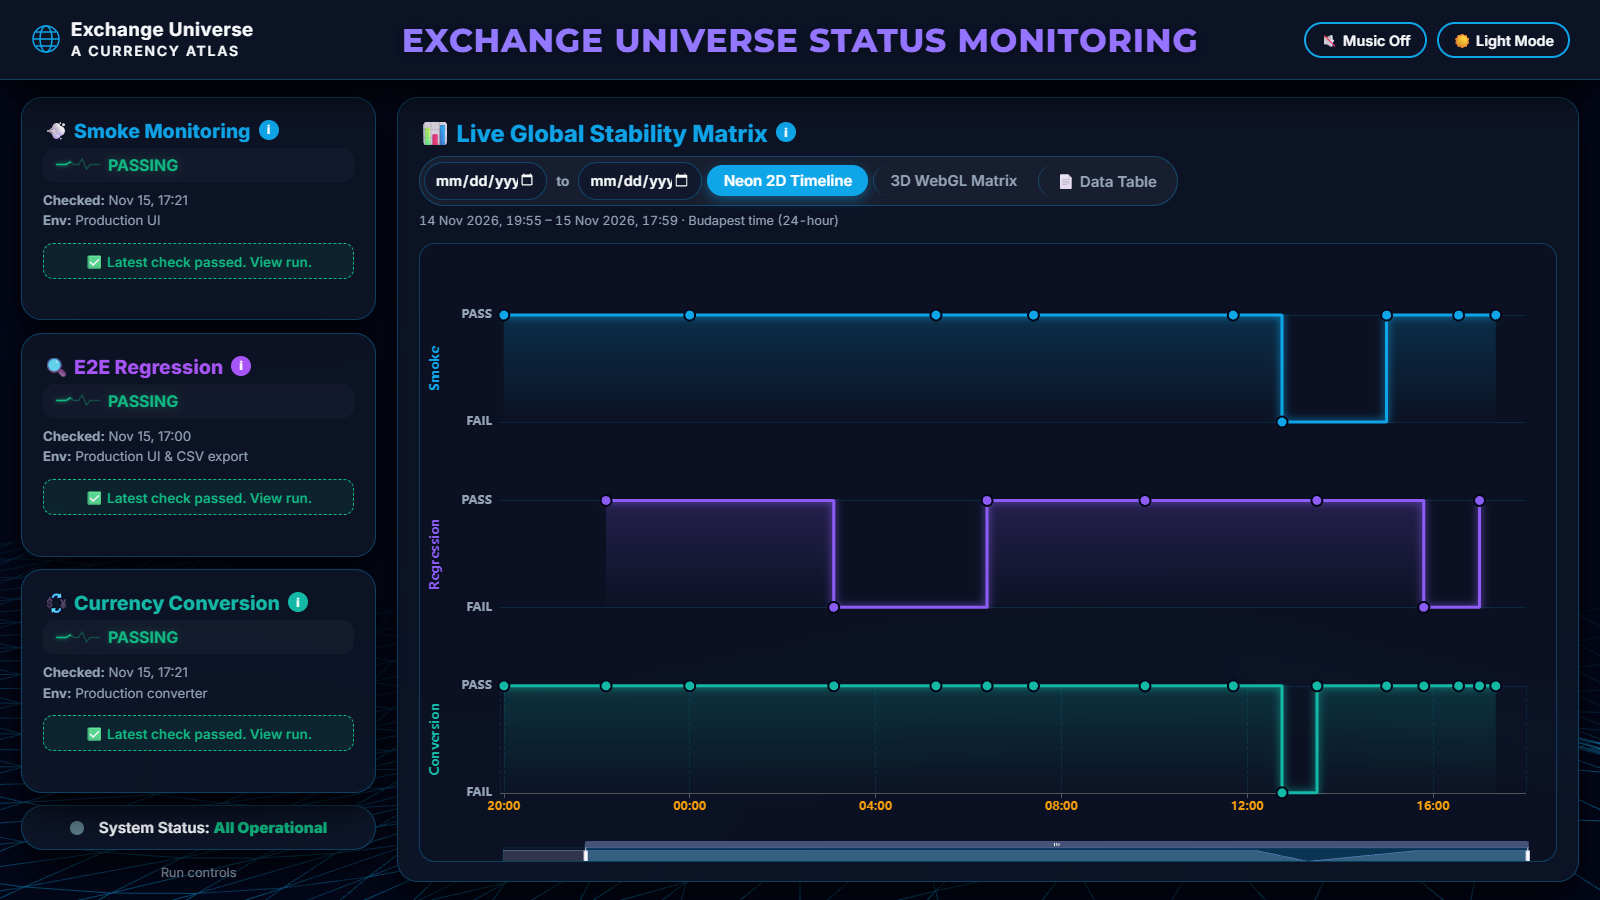
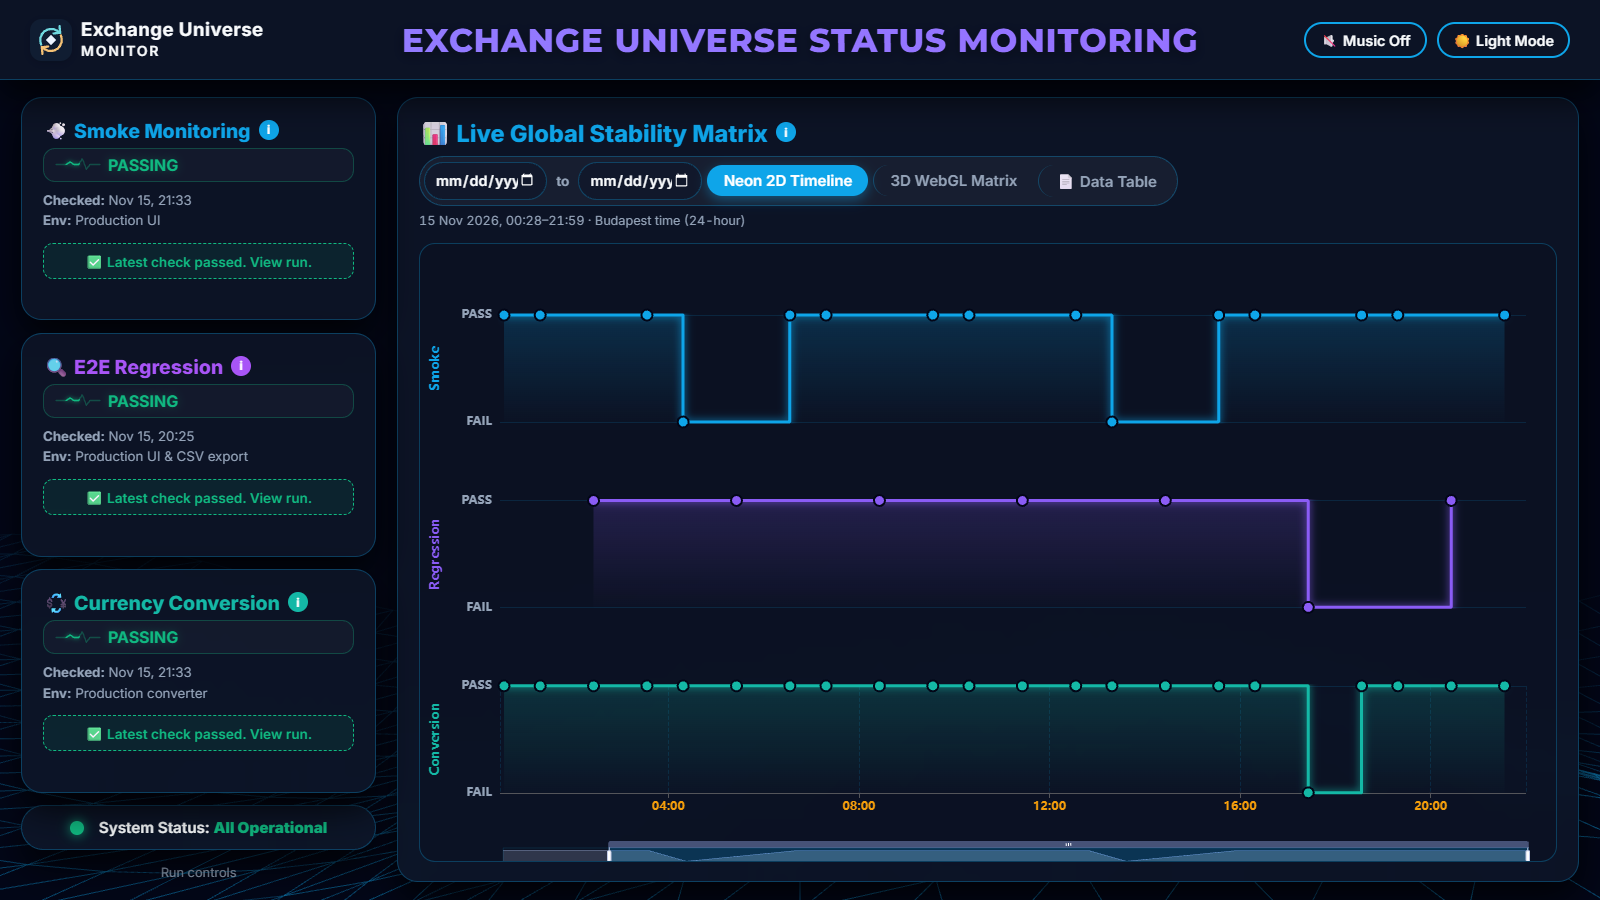
Use the Exchange Universe emblem in the monitor

diff --git a/dashboard/dashboard.css b/dashboard/dashboard.css
@@ -82,13 +82,14 @@ header {
 }
 
 .logo-container img {
-    height: 35px;
+    width: 42px;
+    height: 42px;
+    flex: 0 0 auto;
     filter: drop-shadow(0 2px 4px rgba(0,0,0,0.1));
     transition: transform 0.3s;
 }
 
 .logo-container img:hover { transform: scale(1.05); }
-[data-theme="dark"] .logo-container img { filter: brightness(0) invert(1); }
 
 h1 {
     font-family: 'Montserrat', sans-serif;
@@ -293,7 +294,7 @@ h1 {
 
 @media (max-width: 768px) {
     header { flex-direction: column !important; padding: 15px 10px !important; text-align: center !important; gap: 12px !important; width: 100% !important; box-sizing: border-box !important; }
-    .logo-container img { height: 35px !important; }
+    .logo-container img { width: 35px; height: 35px; }
     h1 { font-size: 1.2rem !important; margin: 0 !important; line-height: 1.4 !important; padding: 0 5px !important; white-space: normal !important; }
     .chart-toggles { flex-direction: column !important; align-items: stretch !important; padding: 10px !important; width: 100% !important; box-sizing: border-box !important; }
     .date-picker { width: 100% !important; text-align: center !important; margin-bottom: 5px !important; padding: 10px !important; box-sizing: border-box !important; }
@@ -336,7 +337,6 @@ h1 { font-size: clamp(1.2rem, 2.04vw, 2.55rem); }
     letter-spacing: .025em;
     line-height: 1.04;
 }
-.logo-container svg { color: var(--accent-blue); }
 .logo-container span { display: grid; }
 .logo-container small { margin-top: 4px; font: 600 .75em Inter, sans-serif; letter-spacing: .13em; text-transform: uppercase; }
 .header-controls { justify-content: flex-end; }

diff --git a/dashboard/index.html b/dashboard/index.html
@@ -4,6 +4,7 @@
     <meta charset="utf-8">
     <meta name="viewport" content="width=device-width, initial-scale=1">
     <title>Exchange Universe Status Monitoring</title>
+    <link rel="icon" type="image/svg+xml" href="/assets/logo-mark.svg">
     <link rel="stylesheet" href="/dashboard.css">
     <script defer src="/assets/echarts.js"></script>
     <script defer src="/assets/echarts-gl.js"></script>
@@ -17,8 +18,8 @@
 
     <header>
         <a class="logo-container" href="https://sadeq.shinyapps.io/exchange_universe/" target="_blank" rel="noopener" aria-label="Open the live Exchange Universe app">
-            <svg aria-hidden="true" width="32" height="32" viewBox="0 0 32 32" fill="none" stroke="currentColor" stroke-width="1.5"><circle cx="16" cy="16" r="13"/><ellipse cx="16" cy="16" rx="6" ry="13"/><path d="M3 16h26M6 9h20M6 23h20"/></svg>
-            <span>Exchange Universe<small>A currency atlas</small></span>
+            <img src="/assets/logo-mark.svg" alt="" width="42" height="42">
+            <span>Exchange Universe<small>Monitor</small></span>
         </a>
         <h1>Exchange Universe Status Monitoring</h1>
         <div class="header-controls">
